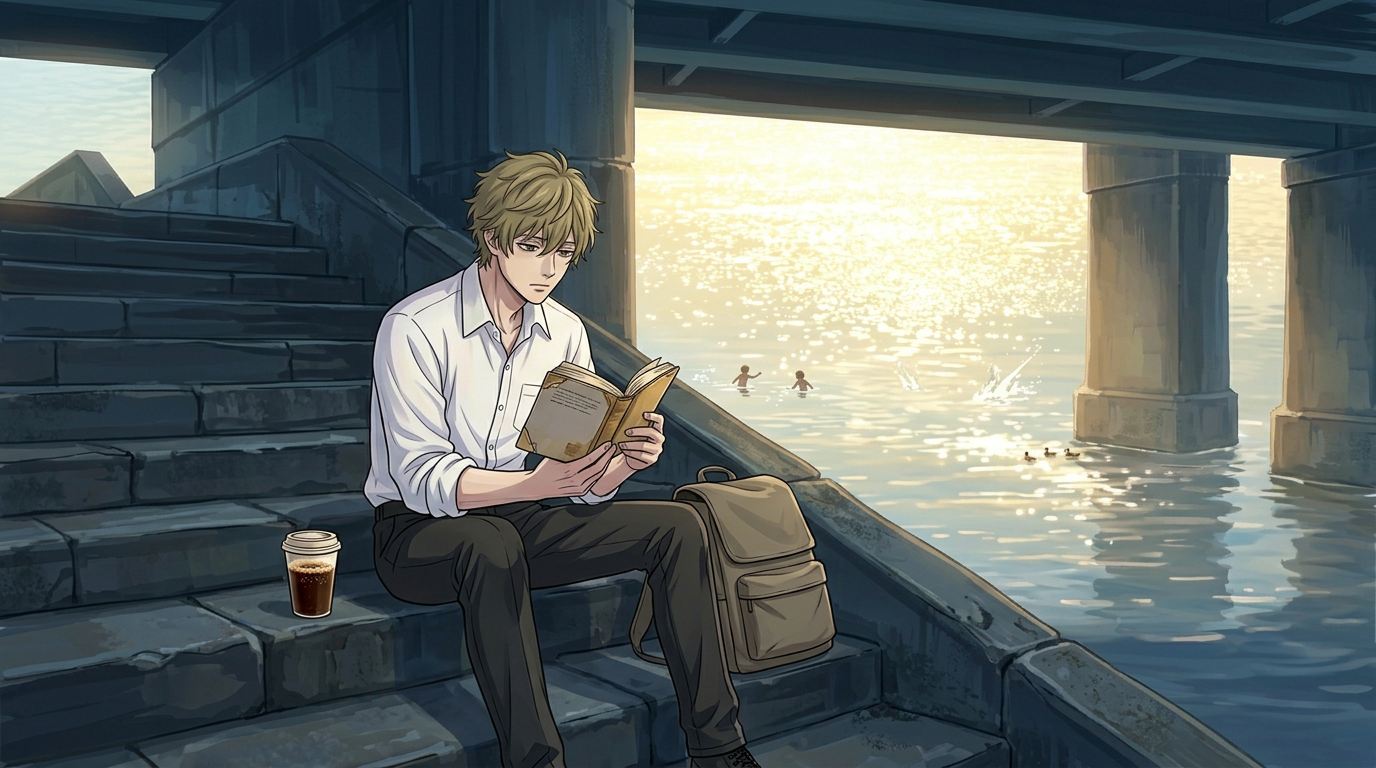
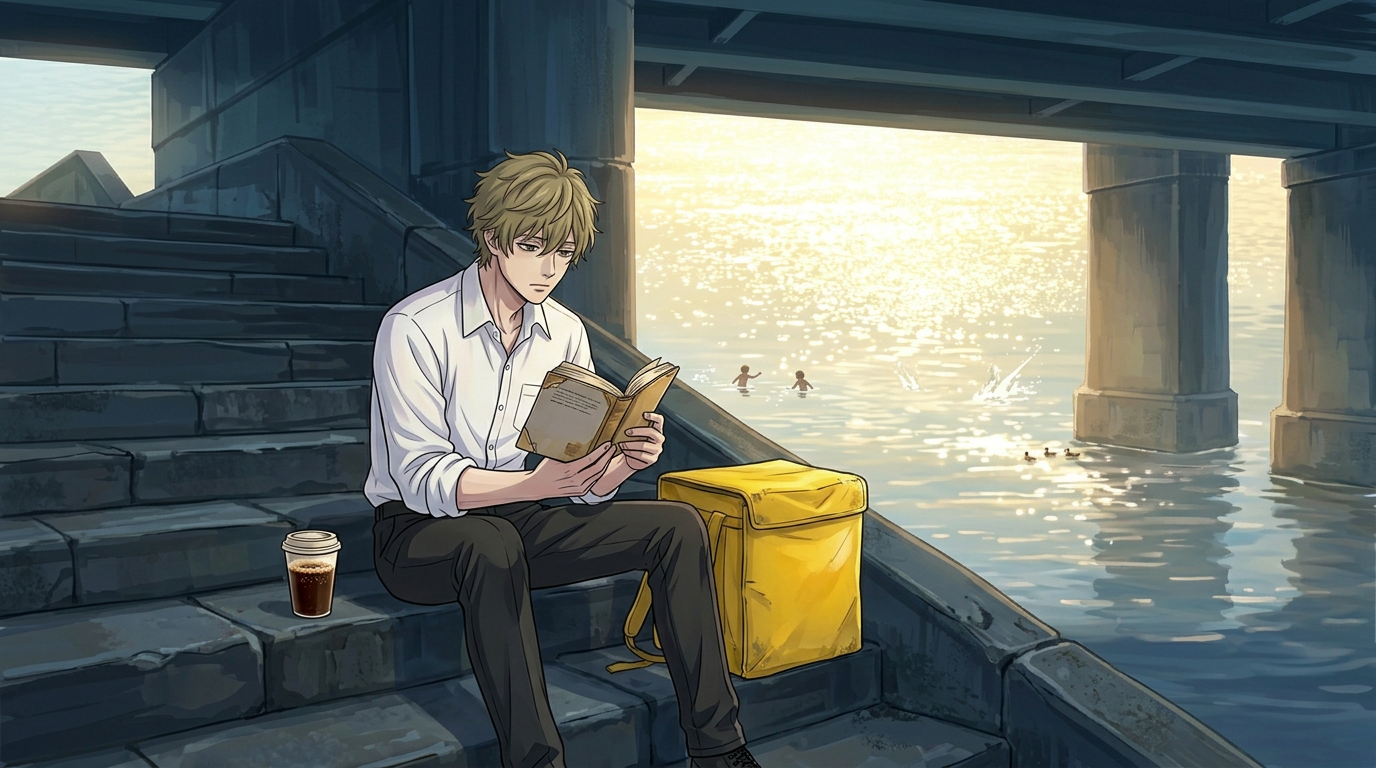
Kvass CG: yellow thermo box; lena_coffee sprite: thermos open; ASSET_VER _13

Changed region(s): [[0.4375, 0.5938, 0.6562, 0.9062]]

diff --git a/index.html b/index.html
@@ -260,34 +260,34 @@
   </div>
 
   <!-- SCRIPT CHAPTERS -->
-  <script src="vn-config.js?v=20261101_12"></script>
-  <script src="vn-core.js?v=20261101_12"></script>
-  <script src="script/_registry.js?v=20261101_12"></script>
-  <script src="script/prologue_1_morning.js?v=20261101_12"></script>
-  <script src="script/prologue_2_city.js?v=20261101_12"></script>
-  <script src="script/prologue_3_barbershop.js?v=20261101_12"></script>
-  <script src="script/prologue_4_depot.js?v=20261101_12"></script>
-  <script src="script/prologue_5_crash.js?v=20261101_12"></script>
-  <script src="script/day1_1_mirael.js?v=20261101_12"></script>
-  <script src="script/day1_2_valeria.js?v=20261101_12"></script>
-  <script src="script/day1_3_evening.js?v=20261101_12"></script>
-  <script src="script/day2_1_quit.js?v=20261101_12"></script>
-  <script src="script/day2_2_zero.js?v=20261101_12"></script>
-  <script src="script/day2_3_walk.js?v=20261101_12"></script>
-  <script src="script/day3_1_office.js?v=20261101_12"></script>
-  <script src="script/day3_2_nika.js?v=20261101_12"></script>
-  <script src="script/day3_3_home.js?v=20261101_12"></script>
-  <script src="script/day4_1_free.js?v=20261101_12"></script>
-  <script src="script/day4_2_barbershop.js?v=20261101_12"></script>
-  <script src="script/day4_3_home.js?v=20261101_12"></script>
-  <script src="script/day5_1_artyom.js?v=20261101_12"></script>
-  <script src="script/day5_2_elevator.js?v=20261101_12"></script>
-  <script src="script/day5_3_night.js?v=20261101_12"></script>
-  <script src="script/day6_1_morning.js?v=20261101_12"></script>
-  <script src="script/day6_2_squeeze.js?v=20261101_12"></script>
-  <script src="script/day6_3_taya.js?v=20261101_12"></script>
-  <script src="script/day7_1_voices.js?v=20261101_12"></script>
-  <script src="script/day7_2_stairs.js?v=20261101_12"></script>
-  <script src="engine.js?v=20261101_12"></script>
+  <script src="vn-config.js?v=20261101_13"></script>
+  <script src="vn-core.js?v=20261101_13"></script>
+  <script src="script/_registry.js?v=20261101_13"></script>
+  <script src="script/prologue_1_morning.js?v=20261101_13"></script>
+  <script src="script/prologue_2_city.js?v=20261101_13"></script>
+  <script src="script/prologue_3_barbershop.js?v=20261101_13"></script>
+  <script src="script/prologue_4_depot.js?v=20261101_13"></script>
+  <script src="script/prologue_5_crash.js?v=20261101_13"></script>
+  <script src="script/day1_1_mirael.js?v=20261101_13"></script>
+  <script src="script/day1_2_valeria.js?v=20261101_13"></script>
+  <script src="script/day1_3_evening.js?v=20261101_13"></script>
+  <script src="script/day2_1_quit.js?v=20261101_13"></script>
+  <script src="script/day2_2_zero.js?v=20261101_13"></script>
+  <script src="script/day2_3_walk.js?v=20261101_13"></script>
+  <script src="script/day3_1_office.js?v=20261101_13"></script>
+  <script src="script/day3_2_nika.js?v=20261101_13"></script>
+  <script src="script/day3_3_home.js?v=20261101_13"></script>
+  <script src="script/day4_1_free.js?v=20261101_13"></script>
+  <script src="script/day4_2_barbershop.js?v=20261101_13"></script>
+  <script src="script/day4_3_home.js?v=20261101_13"></script>
+  <script src="script/day5_1_artyom.js?v=20261101_13"></script>
+  <script src="script/day5_2_elevator.js?v=20261101_13"></script>
+  <script src="script/day5_3_night.js?v=20261101_13"></script>
+  <script src="script/day6_1_morning.js?v=20261101_13"></script>
+  <script src="script/day6_2_squeeze.js?v=20261101_13"></script>
+  <script src="script/day6_3_taya.js?v=20261101_13"></script>
+  <script src="script/day7_1_voices.js?v=20261101_13"></script>
+  <script src="script/day7_2_stairs.js?v=20261101_13"></script>
+  <script src="engine.js?v=20261101_13"></script>
 </body>
 </html>

diff --git a/engine.js b/engine.js
@@ -1,6 +1,6 @@
 // ДВИЖОК ВИЗУАЛЬНОЙ НОВЕЛЛЫ «НЕ СМОТРИ НА НЕБО» ($WAG ENTERTAINMENT)
 (function () {
-  const ASSET_VER = "20261101_12";
+  const ASSET_VER = "20261101_13";
 
   function withVer(url) {
     if (!url) return "";

diff --git a/docs/feedback_log.md b/docs/feedback_log.md
@@ -120,4 +120,6 @@
 - **Велосипед, воткнутый в дерево** (оба фона Мостового) — убран. **Набережная «по воздуху» и непонятная удочка** — заменены фонами с уровня велосипеда (`bg_embankment_ride_storm`, `bg_embankment_ride_evening`).
 - **Не хватает CG** как «Саша у умывальника» — добавлено 5 CG в пролог (см. `production/assets.md`, «CG пролога»).
 - Текст пролога автор поправит сам и объяснит почему — **не трогать текст без запроса.**
+- **Курьерская сумка у Саши — жёлтый термокороб**, не рюкзак (CG на ступенях исправлен).
+- **Спрайт `lena_coffee`:** крышка-кружка в руке, значит термос открыт — колпак убран, видна горловина с кнопочным клапаном и пар.
 

diff --git a/docs/production/assets.md b/docs/production/assets.md
@@ -102,7 +102,7 @@
 | Файл | Сцена | Где |
 |---|---|---|
 | `cg_sasha_mirror.png` | Саша у умывальника | p1 |
-| `cg_kvass_steps.png` | Квас и Фейнман на ступенях под мостом | p2 |
+| `cg_kvass_steps.png` | Квас и Фейнман на ступенях под мостом, рядом жёлтый термокороб (без логотипа) | p2 |
 | `cg_awning_thermos.png` | Лена наливает кофе из термоса под навесом перед грозой | p4 |
 | `cg_mirael_zebra.png` | Мираэль без сознания на зебре, две пары крыльев, перья на воде, упавший синий велосипед (машины нет) | p5 |
 | `cg_arch_carry.png` | Саша в жёлтом дождевике несёт Мираэль через арку, тень на стене | p5 |
